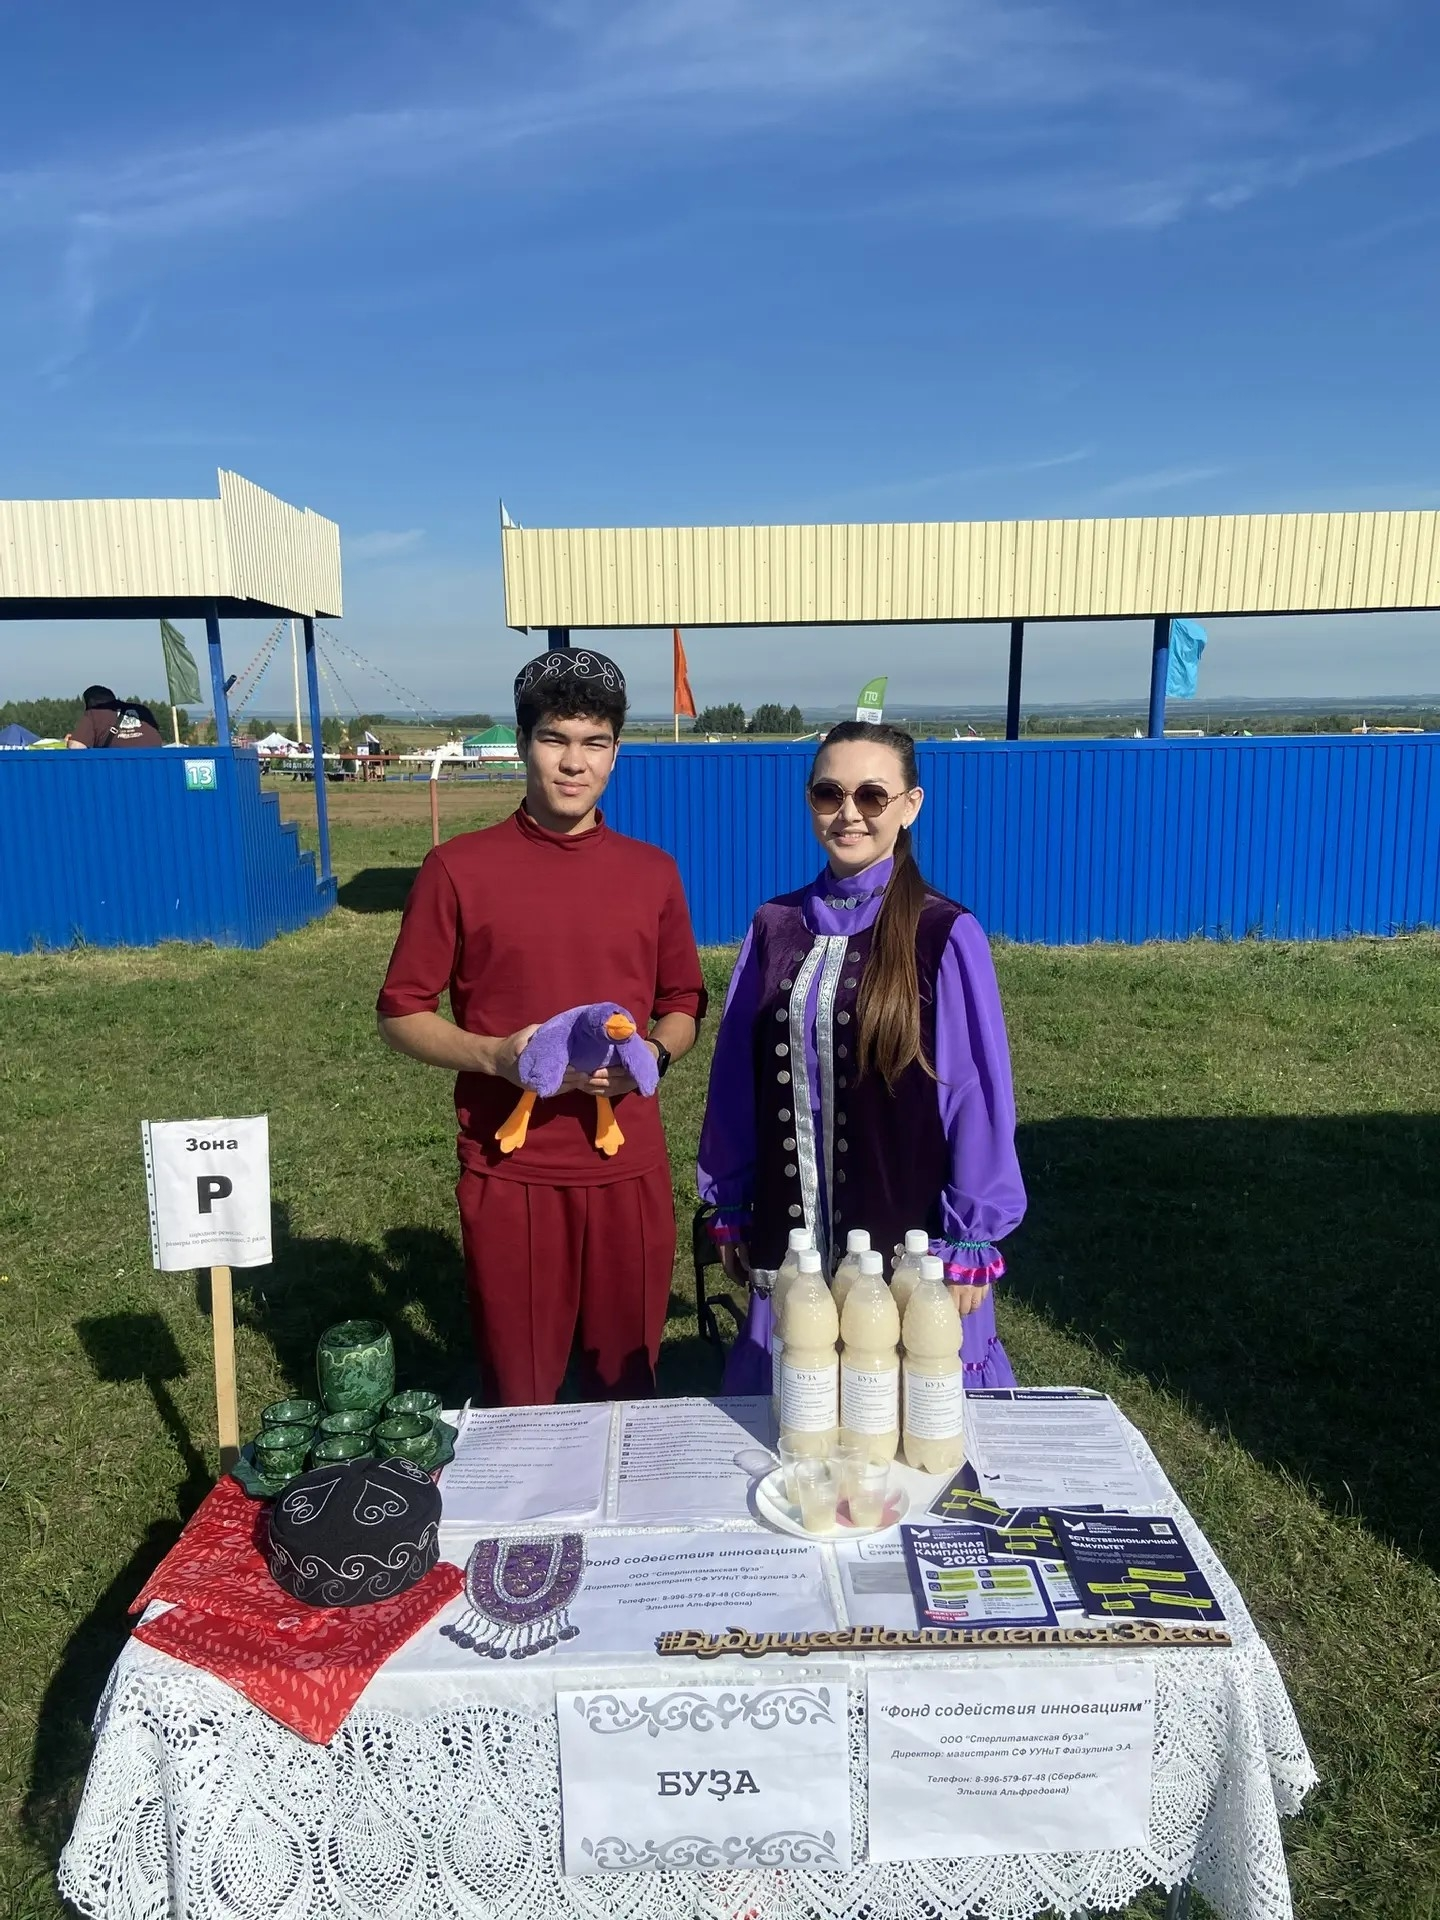
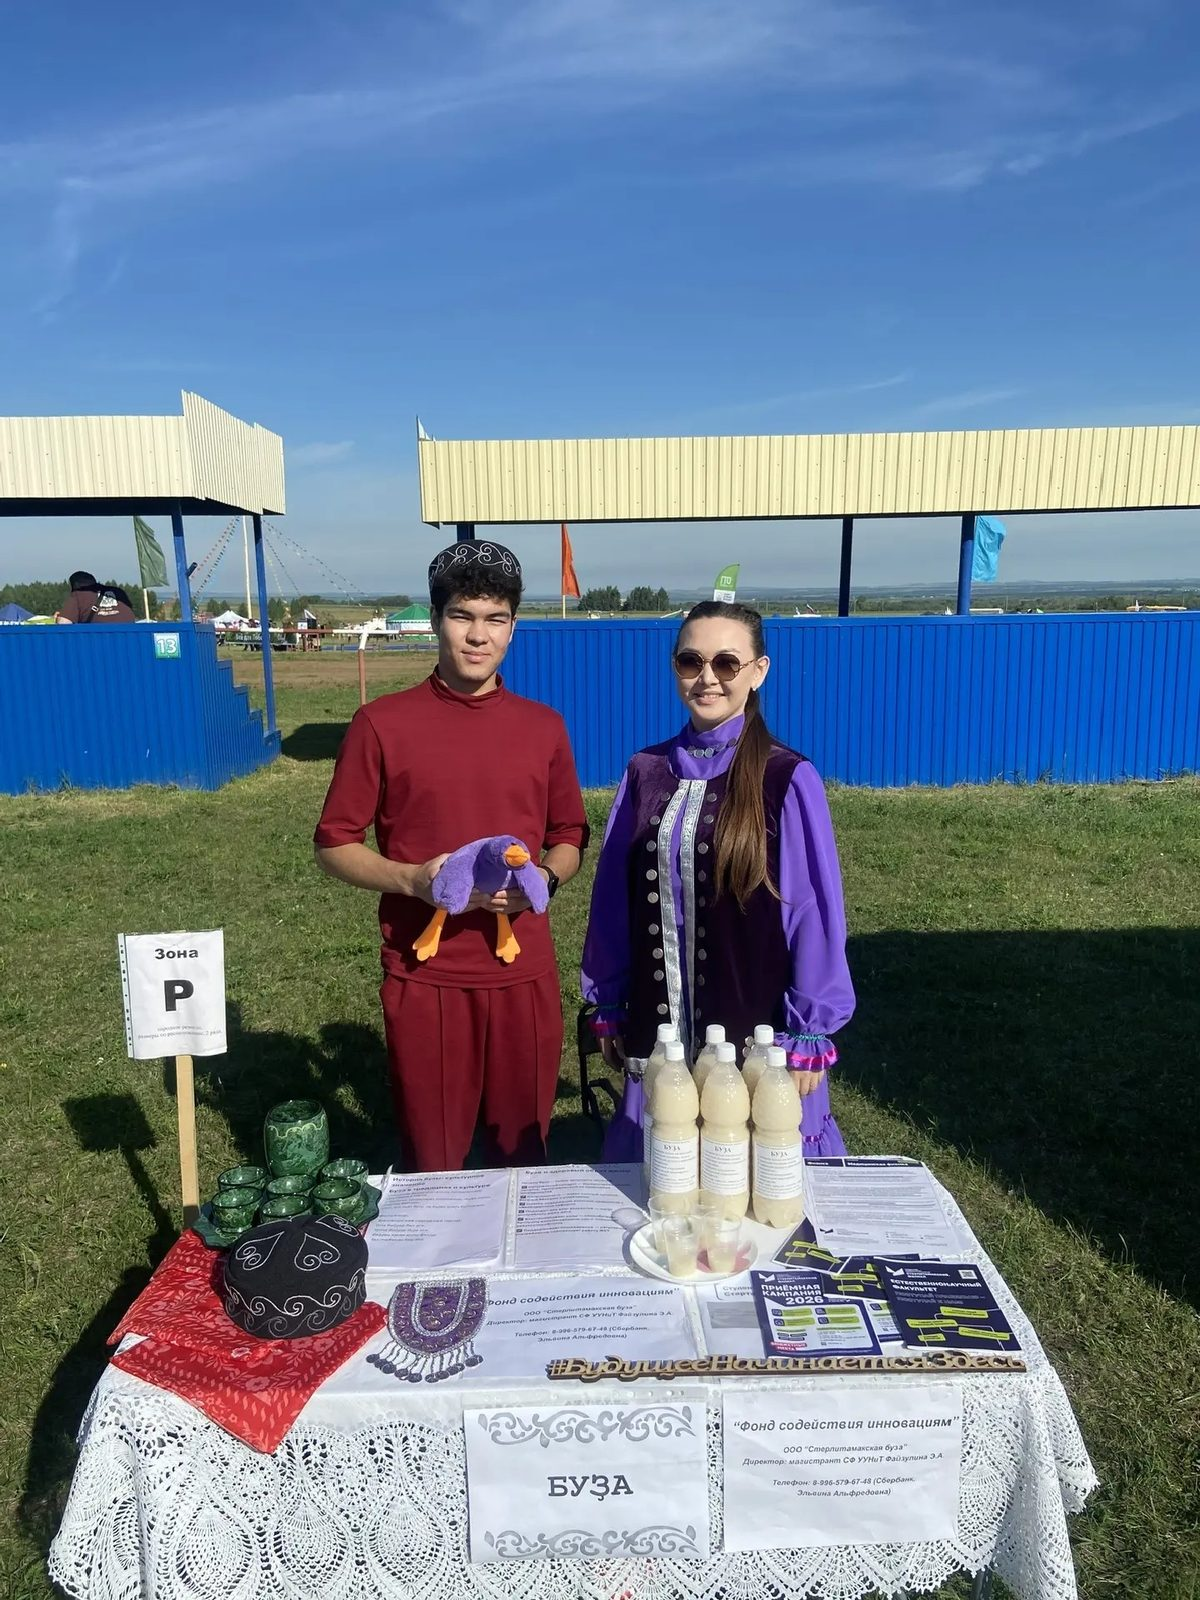
Optimize site images for faster loading

diff --git a/wwwroot/js/app.js b/wwwroot/js/app.js
@@ -4,8 +4,17 @@ const state = {
   events: []
 };
 
-const fallbackImage = "/assets/buza-product.png";
-const processImage = "/assets/buza-process.png";
+const fallbackImage = "/assets/buza-product.webp";
+const processImage = "/assets/buza-process.webp";
+const optimizedImages = {
+  "/assets/buza-hero.png": "/assets/buza-hero.webp",
+  "/assets/buza-product.png": "/assets/buza-product.webp",
+  "/assets/buza-process.png": "/assets/buza-process.webp"
+};
+
+function imagePath(path) {
+  return optimizedImages[path] || path;
+}
 
 document.addEventListener("DOMContentLoaded", async () => {
   bindNavigation();
@@ -129,7 +138,7 @@ function setActiveNav(path) {
 
 function renderHome() {
   const s = state.settings;
-  const heroImage = s.mainImagePath || "/assets/buza-hero.png";
+  const heroImage = imagePath(s.mainImagePath || "/assets/buza-hero.webp");
   document.getElementById("app").innerHTML = `
     <section class="hero" style="background-image: url('${escapeAttr(heroImage)}')">
       <div class="hero-content">
@@ -173,7 +182,7 @@ function renderProductInfo() {
     ${pageIntro("О продукте", "Буза как национальный напиток", s.productDescription)}
     <section class="section compact">
       <div class="section-inner text-columns">
-        <div class="media-frame"><img src="${escapeAttr(s.mainImagePath || "/assets/buza-hero.png")}" alt="Буза"></div>
+        <div class="media-frame"><img src="${escapeAttr(imagePath(s.mainImagePath || "/assets/buza-hero.webp"))}" alt="Буза"></div>
         <div class="grid">
           ${infoPanel("История продукта", s.productHistory)}
           ${infoPanel("Состав", s.productComposition)}
@@ -186,7 +195,7 @@ function renderProductInfo() {
         <p class="eyebrow">Галерея</p>
         <h2>Визуальные материалы продукта</h2>
         <div class="gallery" style="margin-top: 22px">
-          <img src="${escapeAttr(s.mainImagePath || "/assets/buza-hero.png")}" alt="Буза в бутылке">
+          <img src="${escapeAttr(imagePath(s.mainImagePath || "/assets/buza-hero.webp"))}" alt="Буза в бутылке">
           <img src="${fallbackImage}" alt="Каталожное изображение бузы">
           <img src="${processImage}" alt="Сырье и технология бузы">
         </div>
@@ -233,7 +242,7 @@ function eventPostCard(post) {
         <h2>${escapeHtml(post.title)}</h2>
         <time datetime="${escapeAttr(post.createdAt)}">${new Date(post.createdAt).toLocaleDateString("ru-RU")}</time>
       </div>
-      ${post.images?.length ? `<div class="event-gallery">${post.images.map((image, index) => `<img src="${escapeAttr(image.filePath)}" alt="${escapeAttr(post.title)} — фото ${index + 1}" loading="lazy">`).join("")}</div>` : ""}
+      ${post.images?.length ? `<div class="event-gallery">${post.images.map((image, index) => `<img src="${escapeAttr(imagePath(image.filePath))}" alt="${escapeAttr(post.title)} — фото ${index + 1}" loading="lazy">`).join("")}</div>` : ""}
       <p class="rich-text event-post-content">${escapeHtml(post.content)}</p>
     </article>
   `;
@@ -245,7 +254,7 @@ async function renderProductDetails(id) {
 
   try {
     const product = await api(`/api/products/${id}`);
-    const firstImage = product.images?.[0]?.filePath || fallbackImage;
+    const firstImage = imagePath(product.images?.[0]?.filePath || fallbackImage);
     app.innerHTML = `
       ${pageIntro("Страница товара", product.name, product.shortDescription)}
       <section class="section compact">
@@ -253,7 +262,7 @@ async function renderProductDetails(id) {
           <div>
             <div class="media-frame"><img src="${escapeAttr(firstImage)}" alt="${escapeAttr(product.name)}"></div>
             <div class="gallery" style="margin-top: 14px">
-              ${(product.images || []).map((image) => `<img src="${escapeAttr(image.filePath)}" alt="${escapeAttr(product.name)}">`).join("")}
+              ${(product.images || []).map((image) => `<img src="${escapeAttr(imagePath(image.filePath))}" alt="${escapeAttr(product.name)}">`).join("")}
             </div>
           </div>
           <div class="grid">
@@ -366,7 +375,7 @@ function infoPanel(title, text) {
 function productCard(product) {
   return `
     <article class="product-card">
-      <img src="${escapeAttr(product.imagePath || fallbackImage)}" alt="${escapeAttr(product.name)}">
+      <img src="${escapeAttr(imagePath(product.imagePath || fallbackImage))}" alt="${escapeAttr(product.name)}" loading="lazy">
       <div class="product-body">
         <h3>${escapeHtml(product.name)}</h3>
         <p>${escapeHtml(product.shortDescription)}</p>

diff --git a/Data/DatabaseSeeder.cs b/Data/DatabaseSeeder.cs
@@ -57,7 +57,7 @@ public static class DatabaseSeeder
         FoundationText = "Проект развивается при поддержке грантовой программы и направлен на популяризацию национального башкирского ферментированного напитка.",
         FoundationUrl = "https://fasie.ru/",
         FederalProjectUrl = "https://национальныепроекты.рф/",
-        MainImagePath = "/assets/buza-hero.png",
+        MainImagePath = "/assets/buza-hero.webp",
         HeroTitle = "Натуральная буза для энергии, здоровья и традиций каждый день",
         HeroDescription = "Мягкий ферментированный напиток на основе зерна с деликатным вкусом, живой культурой производства и уважением к башкирской гастрономической традиции.",
         ProductHistory = "Буза известна у тюркских народов как питательный напиток из злаков. В Башкортостане ее ценили за насыщенность, мягкий вкус и способность объединять семью за столом.",
@@ -93,7 +93,7 @@ public static class DatabaseSeeder
                 CreatedAt = createdAt,
                 Images =
                 [
-                    new ProductImage { FilePath = "/assets/buza-product.png", CreatedAt = createdAt }
+                    new ProductImage { FilePath = "/assets/buza-product.webp", CreatedAt = createdAt }
                 ]
             },
             new Product
@@ -108,7 +108,7 @@ public static class DatabaseSeeder
                 CreatedAt = createdAt,
                 Images =
                 [
-                    new ProductImage { FilePath = "/assets/buza-hero.png", CreatedAt = createdAt }
+                    new ProductImage { FilePath = "/assets/buza-hero.webp", CreatedAt = createdAt }
                 ]
             }
         ];
